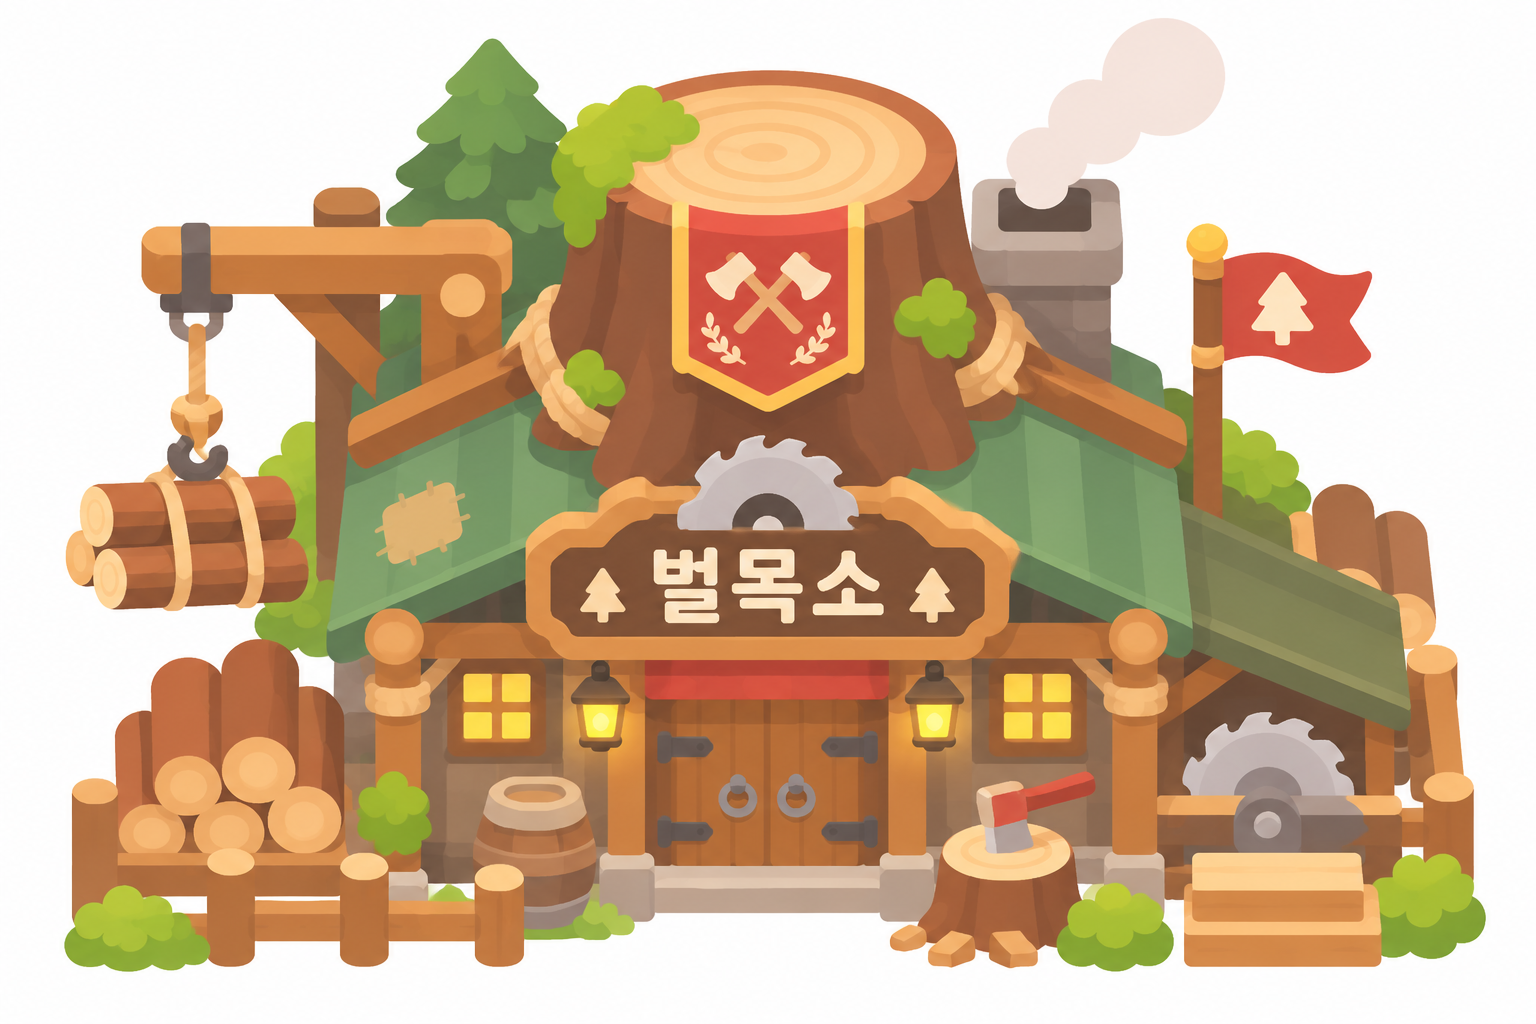
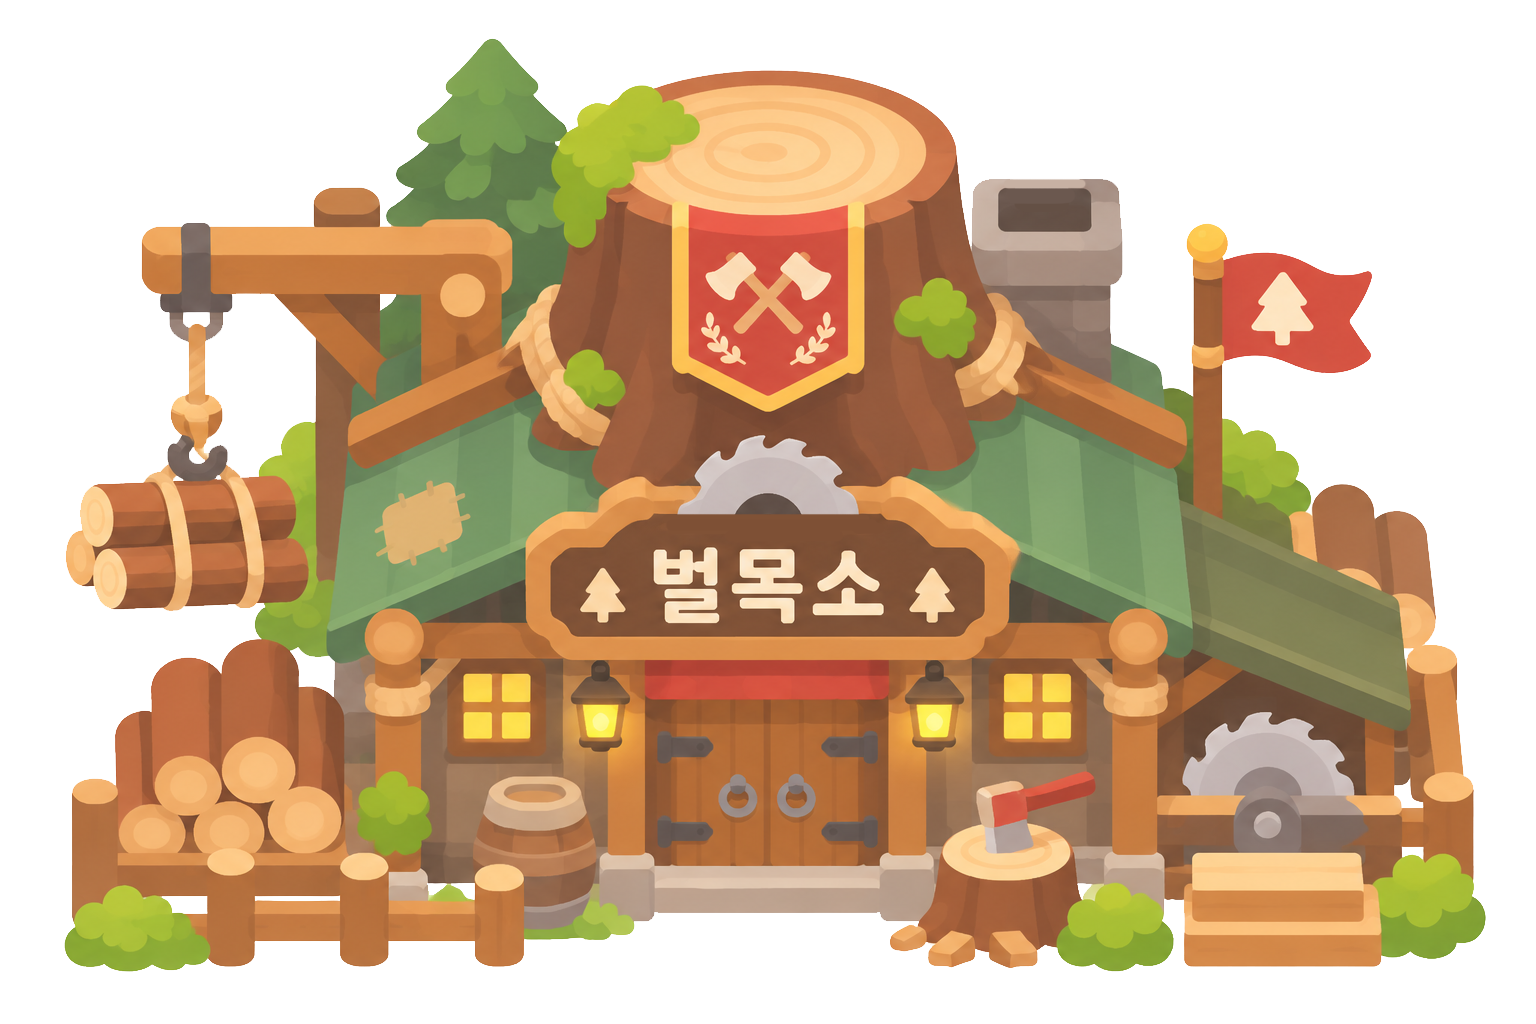
치복 타운: 건물 9곳·텃밭 새 그림, 자리 비움 설명은 i 아이콘으로

Changed region(s): [[0.6562, 0.0, 0.8125, 0.2188], [0.4375, 0.5, 0.5625, 0.5312]]

diff --git a/game.html b/game.html
@@ -890,6 +890,9 @@ a.iconbtn { color: inherit; text-decoration: none; }
 .admform { display: flex; gap: 6px; flex-wrap: wrap; margin: 8px 0; }
 .admform input { flex: 1; min-width: 120px; padding: 8px 10px; border: 2px solid var(--line); border-radius: 10px; font: inherit; font-size: calc(16px * var(--fs)); }
 .rank .ic { font-weight: 800; font-size: calc(16px * var(--fs)); }
+  .itip { position: relative; display: inline-grid; place-items: center; width: 20px; height: 20px; min-height: 0; padding: 0; margin-left: 4px; border-radius: 50%; border: 2px solid currentColor; background: none; color: var(--muted, #7a8494); font: 800 12px/1 Georgia, serif; font-style: italic; vertical-align: middle; cursor: pointer; box-shadow: none; }
+  .itip:hover, .itip:focus-visible, .itip.on { color: #1f2a3a; }
+  .itip-pop { position: fixed; z-index: 120; pointer-events: none; width: max-content; max-width: min(300px, calc(100vw - 24px)); padding: 9px 11px; border-radius: 10px; background: #1f2a3a; color: #fff; font: 600 13px/1.45 "IBM Plex Sans KR", sans-serif; font-style: normal; text-align: left; white-space: normal; box-shadow: 0 6px 18px rgba(0,0,0,.25); }
 </style>
 </head>
 <body>
@@ -4495,7 +4498,7 @@ function ask(msg, { title = '', ok = '확인', no = '취소', danger = false } =
     document.body.append(el); by.focus();
   });
 }
-function closeModal() { if (!modal.hidden) sfx('close'); modal.hidden = true; sheet.innerHTML = ''; reopen = null; }
+function closeModal() { itipShow(null); if (!modal.hidden) sfx('close'); modal.hidden = true; sheet.innerHTML = ''; reopen = null; }
 modal.addEventListener('click', e => { if (performance.now() - modalAt < 400) { e.stopPropagation(); e.preventDefault(); } }, true);
 modal.addEventListener('click', e => { if (e.target === modal || e.target.closest('[data-close]')) closeModal(); });
 addEventListener('keydown', e => { if (e.key === 'Escape' && !modal.hidden) closeModal(); });
@@ -4838,6 +4841,16 @@ function trySend(raw) {
 }
 // ───── 소리 ─────
 sndUnlock();
+// i 아이콘 설명: 창 밖(body)에 띄워서 창 테두리에 잘리지 않게. 누르면 열고, 다른 곳을 누르면 닫힘
+function itipShow(t, on) {
+  document.querySelector('.itip-pop')?.remove(); document.querySelectorAll('.itip.on').forEach(x => x !== t && x.classList.remove('on'));
+  if (!t || !on) { t?.classList.remove('on'); return; }
+  t.classList.add('on'); const d = document.createElement('div'); d.className = 'itip-pop'; d.textContent = t.dataset.tip; document.body.append(d);
+  const r = t.getBoundingClientRect(), w = d.offsetWidth, h = d.offsetHeight;
+  d.style.left = Math.max(12, Math.min(innerWidth - w - 12, r.left - 10)) + 'px';
+  d.style.top = (r.bottom + 8 + h > innerHeight - 8 ? r.top - h - 8 : r.bottom + 8) + 'px';
+}
+document.addEventListener('click', e => { const t = e.target.closest?.('.itip'); if (t) { e.stopPropagation(); itipShow(t, !t.classList.contains('on')); } else itipShow(null); }, true);
 document.addEventListener('click', e => { const b = e.target.closest('button, .gcard, [data-x], [data-a]'); if (b && !b.disabled && !b.closest('[data-close], .close')) sfx('click'); }, true);
 // 서버 버튼(act)이 성공했을 때 소리
 const ACT_SND = [[/house\/(build|up)/, 'build'], [/(collect|job\/finish|sell|claim)/, 'coin'], [/(skin|pots|shop|pack|hire|unlock|farm\/can|farm\/plot|title)/, 'buy'], [/farm\/(plant|plantall)/, 'plant'], [/farm\/water/, 'water'], [/farm\/harvest/, 'harvest'], [/village\/give|wish/, 'coin'], [/equip|unequip|preset|stats/, 'pop']];
@@ -5189,7 +5202,7 @@ function took(j) {
     for (const it of h.drops || []) if (it.g && ['epic', 'legend', 'myth'].includes(it.g)) { toast(`✨ ${GRADES[it.g].n} 장비! ${itemName(it)}`); sysMsg(`✨ ${GRADES[it.g].n} 장비 획득: ${itemName(it)}`); }
     if (HT && h.drops?.length) h.drops.slice(0, 3).forEach((it, i) => floatText(me.x + (i - 1) * 26, me.y - 84 - i * 10, `${itemIcon(it)} ${GRADES[it.g].n}`, it.g === 'normal' ? '#e6ebf2' : GRADES[it.g].c, 14, 1.8));
     if (h.offline >= 60 && !h.died) { const L = h.life || {}, n = v => (v || 0).toLocaleString();
-      openModal(`<h3>🌙 자리 비운 동안</h3><p>${Math.floor(h.sec / 3600)}시간 ${Math.floor(h.sec % 3600 / 60)}분 동안 부지런히 움직였어요!${h.offline >= HUNT.offlineMax ? ` (최대 ${HUNT.offlineMax / 3600}시간까지만 계산)` : ''} 사냥도 하고 마을 일도 했어요. (화면을 닫은 시간은 효율 ${Math.round(HUNT.offlineEff * 100)}%, 경험치는 ${Math.round(HUNT.offlineExp * 100)}%. 그 절반은 사냥 · 절반은 생활)</p>
+      openModal(`<h3>🌙 자리 비운 동안 ${awayTip()}</h3><p>${Math.floor(h.sec / 3600)}시간 ${Math.floor(h.sec % 3600 / 60)}분 동안 부지런히 움직였어요! 사냥도 하고 마을 일도 했어요.</p>
       <h4 class="placeh">⚔ 사냥</h4><table class="ruletable"><tbody><tr><td>처치</td><td>${h.kills.toLocaleString()}마리</td></tr><tr><td>경험치</td><td>+${h.exp.toLocaleString()}${h.up ? ` (레벨 +${h.up})` : ''}</td></tr><tr><td>골드</td><td>+${h.gold.toLocaleString()}</td></tr><tr><td>물약</td><td>${h.pots}개 마심</td></tr></tbody></table>
       ${h.life ? `<h4 class="placeh">🧺 생활</h4><table class="ruletable"><tbody><tr><td>생활 경험치</td><td>+${n(L.exp)}${L.up ? ` (레벨 +${L.up})` : ''}</td></tr><tr><td>골드</td><td>+${n(L.gold)}</td></tr><tr><td>목재 · 석재</td><td>🪵 +${n(L.wood)} · 🪨 +${n(L.stone)}</td></tr><tr><td>코인</td><td>${COIN.fish[0]} +${n(L.fish)} · ${COIN.farm[0]} +${n(L.farm)}</td></tr></tbody></table>` : ''}<button class="btn main" data-close>확인</button>`); }
     if (h.died) {
@@ -5417,12 +5430,15 @@ $('#makeDone').onclick = async () => {
 };
 
 // 자리 비운 동안 (마을에서 화면을 닫았을 때): 서버가 효율 50%로 마을 일을 해 둠
+// i 아이콘: 누르거나 마우스를 올리면 작은 설명 (2026-11-19: 방치 효율 같은 설명은 글로 다 적지 않고 여기로)
+const itip = t => `<button type="button" class="itip" aria-label="설명" data-tip="${esc(t)}">i</button>`;
+const awayTip = () => itip(`화면을 닫아 둔 시간은 최대 ${HUNT.offlineMax / 3600}시간까지, 효율 ${Math.round(HUNT.offlineEff * 100)}%로 계산해요 (경험치는 ${Math.round(HUNT.offlineExp * 100)}%). 절반은 사냥, 절반은 마을 일이에요.`);
 function awaySheet(a) {
   const L = a.life || {}, n = v => (v || 0).toLocaleString(), hm = s => `${Math.floor(s / 3600)}시간 ${Math.floor(s % 3600 / 60)}분`;
   const H = a.hunt || {}, up = (L.up || 0) + (H.up || 0);
-  const show = () => openModal(`<h3>🌙 자리 비운 동안</h3><p>${hm(a.sec)} 동안 <b>사냥</b>과 <b>마을 일</b>을 열심히 했어요!${a.off >= HUNT.offlineMax ? ` (최대 ${HUNT.offlineMax / 3600}시간까지만 계산)` : ''}</p>
+  const show = () => openModal(`<h3>🌙 자리 비운 동안 ${awayTip()}</h3><p>${hm(a.sec)} 동안 <b>사냥</b>과 <b>마을 일</b>을 열심히 했어요!</p>
     <table class="ruletable"><tbody><tr><td>⚔ 사냥</td><td>몬스터 ${n(H.kill)}마리 처치</td></tr><tr><td>경험치</td><td>+${n((L.exp || 0) + (H.exp || 0))}${up ? ` (레벨 +${up})` : ''} <small class="muted">(사냥 ${n(H.exp)} · 마을 일 ${n(L.exp)})</small></td></tr><tr><td>골드</td><td>+${n((L.gold || 0) + (H.gold || 0))} <small class="muted">(사냥 ${n(H.gold)} · 마을 일 ${n(L.gold)})</small></td></tr><tr><td>목재 · 석재</td><td>🪵 +${n(L.wood)} · 🪨 +${n(L.stone)}</td></tr><tr><td>코인</td><td>${COIN.fish[0]} +${n(L.fish)} · ${COIN.farm[0]} +${n(L.farm)}</td></tr></tbody></table>
-    <p class="muted">화면을 닫아 둔 시간은 효율 ${Math.round(HUNT.offlineEff * 100)}%(경험치는 ${Math.round(HUNT.offlineExp * 100)}%)로, 최대 ${HUNT.offlineMax / 3600}시간까지 계산해요. 그 절반은 사냥, 절반은 마을 일이에요.</p><button class="btn main" data-close>확인</button>`);
+    <button class="btn main" data-close>확인</button>`);
   logAct(`자리 비운 동안 ${hm(a.sec)}: 골드 +${n((L.gold || 0) + (H.gold || 0))}`);
   if (modal.hidden) show(); else { const t = setInterval(() => { if (modal.hidden) { clearInterval(t); show(); } }, 500); }
 }

diff --git a/scripts/img-export/town-art.py b/scripts/img-export/town-art.py
@@ -149,14 +149,21 @@ def crop(rgba, b):
     bx = bbox(sub[:, :, 3])
     return sub[bx[1]:bx[3], bx[0]:bx[2]]
 
-# 1) 가게 건물 (한 장에 하나)
+def load_rgba(name):
+    return np.asarray(Image.open(os.path.join(SRC, name + '.png')).convert('RGBA'))
+
+def keep_rgba(name):
+    """이미 배경이 투명한 그림 (2026-11-18 새 그림): 투명 칸 색은 0으로"""
+    a = load_rgba(name).copy(); a[a[:, :, 3] == 0] = 0; return a
+
+# 1) 가게 건물 (한 장에 하나). 2026-11-19 새 그림은 배경이 투명 → keep_rgba
 for src, key in [('건물_가챠센터', 'gacha'), ('건물_카페', 'cafe'), ('건물_스킨샵', 'skin'), ('건물_마을회관', 'hall'), ('건물_대장간', 'smith'),
                  ('건물_낚시점', 'fishshop'), ('건물_벌목소', 'lumber'), ('건물_채석장', 'quarry'), ('건물_텃밭 창고', 'farmshed')]:
-    r = cut_bg(load(src)); r = r[bbox(r[:, :, 3])[1]:, :]
+    r = keep_rgba(src)
     b = bbox(r[:, :, 3]); save('b-' + key, r[b[1]:b[3], b[0]:b[2]], width=720)
 
 # 2) 텃밭 (울타리 + 흙). 두둑 줄 위치도 기록 (0~1)
-r = cut_bg(load('건물_텃밭')); b = bbox(r[:, :, 3]); f = r[b[1]:b[3], b[0]:b[2]]
+r = keep_rgba('건물_텃밭'); b = bbox(r[:, :, 3]); f = r[b[1]:b[3], b[0]:b[2]]
 im = save('farm', f, width=900)
 # 두둑(밝은 갈색 줄) 가운데: 원본 그림에서 잰 y (215, 335, 460, 580, 695)
 META['farmRows'] = [round((y - b[1]) / (b[3] - b[1]), 4) for y in (215, 335, 460, 580, 695)]
@@ -164,13 +171,6 @@ META['farmRows'] = [round((y - b[1]) / (b[3] - b[1]), 4) for y in (215, 335, 460
 row = f[int(f.shape[0] * .5), :, :3].astype(int)
 soil = np.where((row[:, 0] < 180) & (row[:, 0] > 110) & (row[:, 1] < 110))[0]
 META['farmIn'] = [round(soil.min() / f.shape[1], 4), round(soil.max() / f.shape[1], 4)]
-
-def load_rgba(name):
-    return np.asarray(Image.open(os.path.join(SRC, name + '.png')).convert('RGBA'))
-
-def keep_rgba(name):
-    """이미 배경이 투명한 그림 (2026-11-18 새 그림): 투명 칸 색은 0으로"""
-    a = load_rgba(name).copy(); a[a[:, :, 3] == 0] = 0; return a
 
 # 3) 나무 5그루 (2026-11-18 새 그림, 배경 투명)
 r = keep_rgba('풍경_나무')

diff --git a/CLAUDE.md b/CLAUDE.md
@@ -603,6 +603,8 @@
 ### 자리 비움 줄임 — 2026-11-19 배포
 - 화면을 닫은 동안 최대 8 → **4시간** (`HUNT.offlineMax`), **경험치만 효율 10%** (`HUNT.offlineExp`, 골드·자원은 `offlineEff` 50% 그대로). 경험치 배율 `OFF_XP()` = .1/.5 → `offlineLife`·`offlineHuntAway`, hunt.js `settle`은 닫은 몫(`offLeft`)을 먼저 계산하며 `reward(…, xm)`
 - 시험(4시간 비움): Lv10 +5업 · Lv23 +2업 · Lv40 +1업 (예전 8시간·50%: 19 · 16 · 12업)
+- 자리 비움 창의 효율·최대 시간 설명은 글 대신 **i 아이콘** (`itip(설명)` → 누르면 창 밖에 말풍선 `.itip-pop`, `itipShow`). 다른 곳에도 긴 설명은 이걸로
+- 건물 9곳 + 텃밭 새 그림 (2026-11-19, 배경 투명) → town-art.py 1·2번이 `keep_rgba`로 읽음. 텃밭 그림은 예전과 같은 픽셀이라 고랑 위치 그대로
 
 ### 다음: 4-2단계
 - 집 안 가구 사기·놓기·옮기기, 도감
